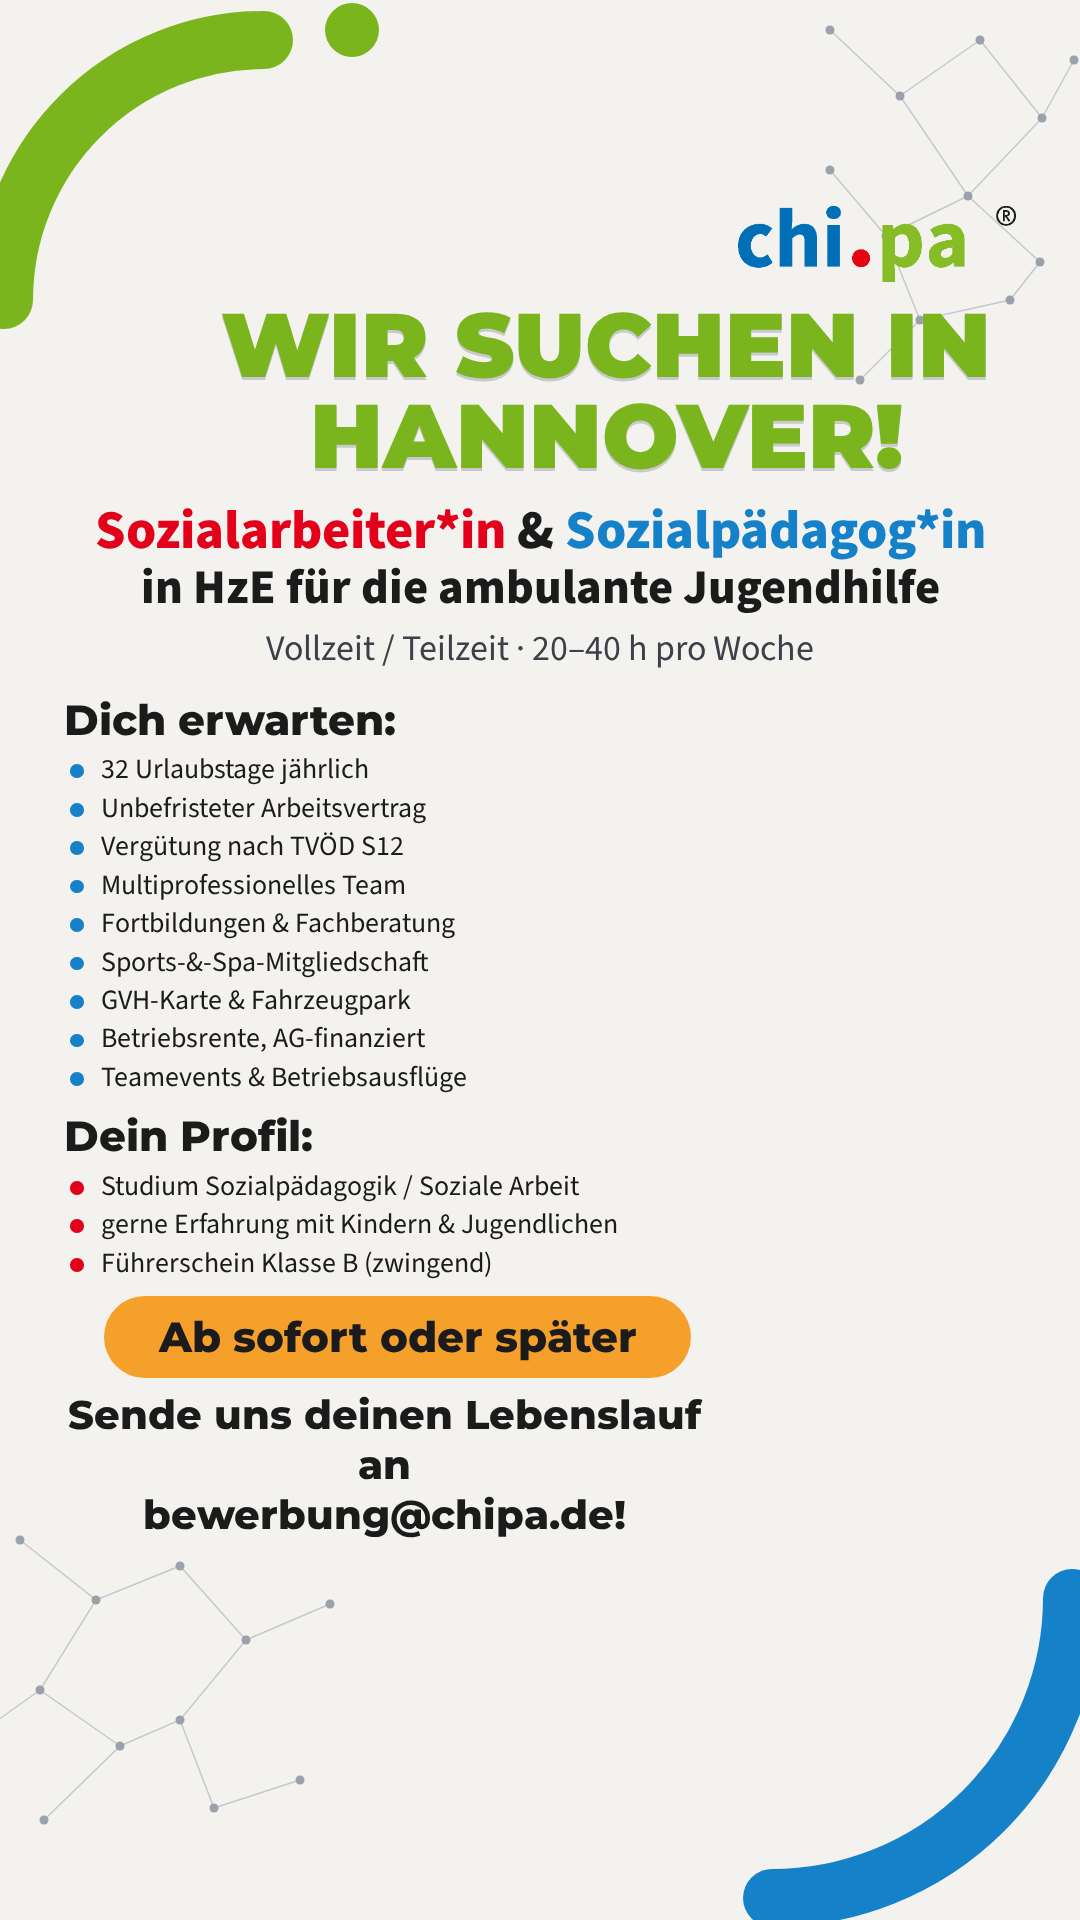
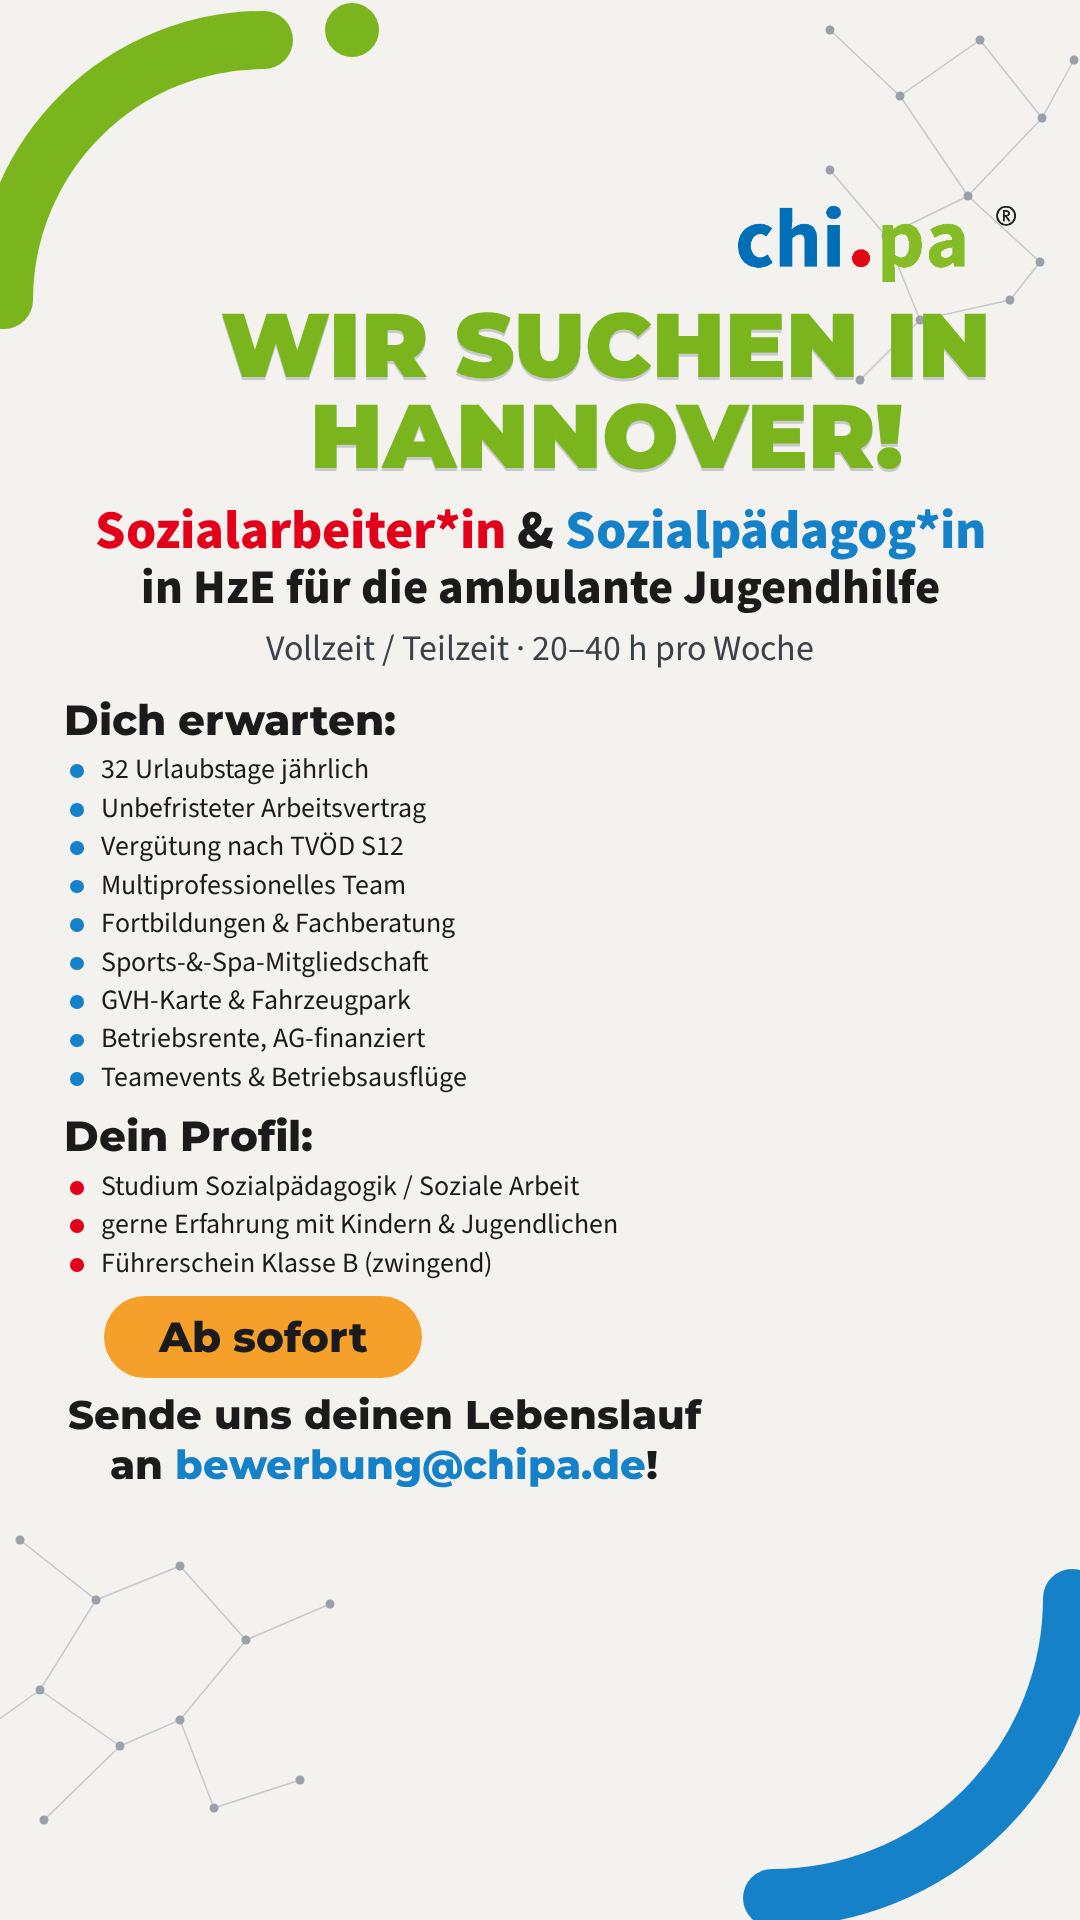
Creatives: neues Portrait, Stoerer "Ab sofort", Mailadresse blau und bei "an"
- anderes freigestelltes Portrait; die schmalere Silhouette erlaubt ohne
  Beschnitt deutlich mehr Bildhoehe (71/73/65 % statt 64/69/35 % der Leinwand)
- Freistellung jetzt ueber Zusammenhangskomponenten: nur die groesste Flaeche
  bleibt stehen, Streublobs koennen nicht mehr uebrigbleiben
- Geometrie mit dem neuen Silhouetten-Profil neu geloest, weiterhin
  mindestens 26px Abstand zur laengsten Textzeile in jeder Bildzeile
- Stoerer: "Ab sofort oder spaeter" -> "Ab sofort"
- CTA umbrochen zu "Sende uns deinen Lebenslauf / an bewerbung@chipa.de!",
  damit "an" direkt vor der Adresse steht; Adresse in chi.pa-Blau

Claude-Session: https://claude.ai/code/session_01XE54kbzobi7jBnp7yP8V6b

Changed region(s): [[0.0917, 0.75, 0.6111, 0.8125], [0.3361, 0.6562, 0.6417, 0.7188]]

diff --git a/landingpages/chipa/anzeigen/hannover-story-9x16.html b/landingpages/chipa/anzeigen/hannover-story-9x16.html
@@ -11,7 +11,7 @@ html,body{margin:0;padding:0;background:#5a5a5a}
 .deco{position:absolute;inset:0}
 .logo{position:absolute;top:206px;right:64px;height:76px;width:auto;z-index:4}
 /* FOTO: freigestelltes PNG. Fehlt es, blendet es sich aus. */
-.person{position:absolute;right:-60px;bottom:0;height:674px;width:auto;z-index:2;
+.person{position:absolute;right:-20px;bottom:0;height:1242px;width:auto;z-index:2;
         filter:drop-shadow(0 12px 26px rgba(21,41,77,.20))}
 .safe{position:absolute;left:0;right:0;top:300px;bottom:340px;
       z-index:3;padding:0 64px;overflow:hidden}
@@ -34,6 +34,7 @@ li::before{content:"";position:absolute;left:calc(5px*var(--k));top:calc(9px*var
 .badge{display:inline-block;margin:0 0 0 40px;background:var(--orange);color:#1b1b1b;
        font-family:'Montserrat',system-ui,sans-serif;font-weight:800;font-size:calc(34px*var(--k));
        padding:calc(12px*var(--k)) calc(44px*var(--k));border-radius:99px}
+.cta .mail{color:var(--blue)}
 .cta{margin:calc(10px*var(--k)) 0 0;width:640px;text-align:center;
      font-family:'Montserrat',system-ui,sans-serif;font-weight:800;font-size:calc(32px*var(--k));line-height:1.26}
 /* Hilfslinien nur mit ?guides=1 */
@@ -69,14 +70,14 @@ body.textonly,body.textonly .ad{background:transparent}
         <h2>Dein Profil:</h2>
         <ul class="profil"><li>Studium Sozialp&auml;dagogik / Soziale Arbeit</li><li>gerne Erfahrung mit Kindern &amp; Jugendlichen</li><li>F&uuml;hrerschein Klasse B (zwingend)</li></ul>
       </div>
-      <div class="badge">Ab sofort oder sp&auml;ter</div>
-      <p class="cta">Sende uns deinen Lebenslauf an<br>bewerbung@chipa.de!</p>
+      <div class="badge">Ab sofort</div>
+      <p class="cta">Sende uns deinen Lebenslauf<br>an <span class="mail">bewerbung@chipa.de</span>!</p>
     </div>
   </div>
 </div>
 
 <script>
-var FALLBACK="https://d2ol7oe51mr4n9.cloudfront.net/user_3FMOEY2sW2O9UHP9weQoM4ut9qO/668c2d66-29bc-4b03-bd2d-835dc50d6ccb.png";
+var FALLBACK="https://d2ol7oe51mr4n9.cloudfront.net/user_3FMOEY2sW2O9UHP9weQoM4ut9qO/534cb777-977c-4ebb-8ee4-2857cd899380.png";
 /* Auto-Fit: skaliert den Textblock herunter, falls er nicht in die sichere
    Flaeche passt. Dadurch kann nach dem Bearbeiten nichts abgeschnitten werden. */
 (function(){

diff --git a/landingpages/chipa/anzeigen/hannover-feed-4x5.html b/landingpages/chipa/anzeigen/hannover-feed-4x5.html
@@ -11,7 +11,7 @@ html,body{margin:0;padding:0;background:#5a5a5a}
 .deco{position:absolute;inset:0}
 .logo{position:absolute;top:30px;right:54px;height:64px;width:auto;z-index:4}
 /* FOTO: freigestelltes PNG. Fehlt es, blendet es sich aus. */
-.person{position:absolute;right:-60px;bottom:0;height:864px;width:auto;z-index:2;
+.person{position:absolute;right:-20px;bottom:0;height:962px;width:auto;z-index:2;
         filter:drop-shadow(0 12px 26px rgba(21,41,77,.20))}
 .safe{position:absolute;left:0;right:0;top:112px;bottom:54px;
       z-index:3;padding:0 54px;overflow:hidden}
@@ -34,6 +34,7 @@ li::before{content:"";position:absolute;left:calc(5px*var(--k));top:calc(9px*var
 .badge{display:inline-block;margin:0 0 0 40px;background:var(--orange);color:#1b1b1b;
        font-family:'Montserrat',system-ui,sans-serif;font-weight:800;font-size:calc(34px*var(--k));
        padding:calc(12px*var(--k)) calc(44px*var(--k));border-radius:99px}
+.cta .mail{color:var(--blue)}
 .cta{margin:calc(10px*var(--k)) 0 0;width:600px;text-align:center;
      font-family:'Montserrat',system-ui,sans-serif;font-weight:800;font-size:calc(32px*var(--k));line-height:1.26}
 /* Hilfslinien nur mit ?guides=1 */
@@ -69,14 +70,14 @@ body.textonly,body.textonly .ad{background:transparent}
         <h2>Dein Profil:</h2>
         <ul class="profil"><li>Studium Sozialp&auml;dagogik / Soziale Arbeit</li><li>gerne Erfahrung mit Kindern &amp; Jugendlichen</li><li>F&uuml;hrerschein Klasse B (zwingend)</li></ul>
       </div>
-      <div class="badge">Ab sofort oder sp&auml;ter</div>
-      <p class="cta">Sende uns deinen Lebenslauf an<br>bewerbung@chipa.de!</p>
+      <div class="badge">Ab sofort</div>
+      <p class="cta">Sende uns deinen Lebenslauf<br>an <span class="mail">bewerbung@chipa.de</span>!</p>
     </div>
   </div>
 </div>
 
 <script>
-var FALLBACK="https://d2ol7oe51mr4n9.cloudfront.net/user_3FMOEY2sW2O9UHP9weQoM4ut9qO/668c2d66-29bc-4b03-bd2d-835dc50d6ccb.png";
+var FALLBACK="https://d2ol7oe51mr4n9.cloudfront.net/user_3FMOEY2sW2O9UHP9weQoM4ut9qO/534cb777-977c-4ebb-8ee4-2857cd899380.png";
 /* Auto-Fit: skaliert den Textblock herunter, falls er nicht in die sichere
    Flaeche passt. Dadurch kann nach dem Bearbeiten nichts abgeschnitten werden. */
 (function(){

diff --git a/landingpages/chipa/anzeigen/hannover-feed-1x1.html b/landingpages/chipa/anzeigen/hannover-feed-1x1.html
@@ -11,7 +11,7 @@ html,body{margin:0;padding:0;background:#5a5a5a}
 .deco{position:absolute;inset:0}
 .logo{position:absolute;top:30px;right:48px;height:54px;width:auto;z-index:4}
 /* FOTO: freigestelltes PNG. Fehlt es, blendet es sich aus. */
-.person{position:absolute;right:-20px;bottom:0;height:740px;width:auto;z-index:2;
+.person{position:absolute;right:-20px;bottom:0;height:788px;width:auto;z-index:2;
         filter:drop-shadow(0 12px 26px rgba(21,41,77,.20))}
 .safe{position:absolute;left:0;right:0;top:96px;bottom:44px;
       z-index:3;padding:0 48px;overflow:hidden}
@@ -34,6 +34,7 @@ li::before{content:"";position:absolute;left:calc(5px*var(--k));top:calc(9px*var
 .badge{display:inline-block;margin:0 0 0 40px;background:var(--orange);color:#1b1b1b;
        font-family:'Montserrat',system-ui,sans-serif;font-weight:800;font-size:calc(34px*var(--k));
        padding:calc(12px*var(--k)) calc(44px*var(--k));border-radius:99px}
+.cta .mail{color:var(--blue)}
 .cta{margin:calc(10px*var(--k)) 0 0;width:580px;text-align:center;
      font-family:'Montserrat',system-ui,sans-serif;font-weight:800;font-size:calc(32px*var(--k));line-height:1.26}
 /* Hilfslinien nur mit ?guides=1 */
@@ -69,14 +70,14 @@ body.textonly,body.textonly .ad{background:transparent}
         <h2>Dein Profil:</h2>
         <ul class="profil"><li>Studium Sozialp&auml;dagogik / Soziale Arbeit</li><li>gerne Erfahrung mit Kindern &amp; Jugendlichen</li><li>F&uuml;hrerschein Klasse B (zwingend)</li></ul>
       </div>
-      <div class="badge">Ab sofort oder sp&auml;ter</div>
-      <p class="cta">Sende uns deinen Lebenslauf an<br>bewerbung@chipa.de!</p>
+      <div class="badge">Ab sofort</div>
+      <p class="cta">Sende uns deinen Lebenslauf<br>an <span class="mail">bewerbung@chipa.de</span>!</p>
     </div>
   </div>
 </div>
 
 <script>
-var FALLBACK="https://d2ol7oe51mr4n9.cloudfront.net/user_3FMOEY2sW2O9UHP9weQoM4ut9qO/668c2d66-29bc-4b03-bd2d-835dc50d6ccb.png";
+var FALLBACK="https://d2ol7oe51mr4n9.cloudfront.net/user_3FMOEY2sW2O9UHP9weQoM4ut9qO/534cb777-977c-4ebb-8ee4-2857cd899380.png";
 /* Auto-Fit: skaliert den Textblock herunter, falls er nicht in die sichere
    Flaeche passt. Dadurch kann nach dem Bearbeiten nichts abgeschnitten werden. */
 (function(){

diff --git a/landingpages/chipa/anzeigen/build.py b/landingpages/chipa/anzeigen/build.py
@@ -14,7 +14,7 @@ ASSETS = os.path.join(HERE, 'assets')
 def b64(path):
     return base64.b64encode(open(path, 'rb').read()).decode()
 
-FALLBACK = 'https://d2ol7oe51mr4n9.cloudfront.net/user_3FMOEY2sW2O9UHP9weQoM4ut9qO/668c2d66-29bc-4b03-bd2d-835dc50d6ccb.png'  # freigestelltes Portrait, falls person.png fehlt
+FALLBACK = 'https://d2ol7oe51mr4n9.cloudfront.net/user_3FMOEY2sW2O9UHP9weQoM4ut9qO/534cb777-977c-4ebb-8ee4-2857cd899380.png'  # freigestelltes Portrait, falls person.png fehlt
 PERSON = sys.argv[1] if len(sys.argv) > 1 else 'person.png'
 
 # ---------------------------------------------------------------- Inhalte ----
@@ -23,8 +23,8 @@ ROLE_A    = 'Sozialarbeiter*in'
 ROLE_B    = 'Sozialp&auml;dagog*in'
 ROLE_SUB  = 'in HzE f&uuml;r die ambulante Jugendhilfe'
 PENSUM    = 'Vollzeit / Teilzeit &middot; 20&ndash;40 h pro Woche'
-BADGE     = 'Ab sofort oder sp&auml;ter'
-CTA       = 'Sende uns deinen Lebenslauf an<br>bewerbung@chipa.de!'
+BADGE     = 'Ab sofort'
+CTA       = 'Sende uns deinen Lebenslauf<br>an <span class="mail">bewerbung@chipa.de</span>!'
 
 PERKS = [
     '32 Urlaubstage j&auml;hrlich',
@@ -47,13 +47,13 @@ PROFIL = [
 # safe_top / safe_bottom: Bereiche, die auf dem Handy von der Plattform-UI
 # ueberdeckt werden koennen. Text und Logo bleiben ausserhalb.
 FORMATS = {
-    'feed-4x5': dict(w=1080, h=1350, k=1.12, col=566, person=864, bleed=60, logo=64,
+    'feed-4x5': dict(w=1080, h=1350, k=1.12, col=566, person=962, bleed=20, logo=64,
                      padx=54, safe_top=112, safe_bottom=54,
                      label='Meta Feed 4:5 (empfohlen)'),
-    'feed-1x1': dict(w=1080, h=1080, k=0.99, col=546, person=740, bleed=20, logo=54,
+    'feed-1x1': dict(w=1080, h=1080, k=0.99, col=546, person=788, bleed=20, logo=54,
                      padx=48, safe_top=96,  safe_bottom=44,
                      label='Meta Feed 1:1'),
-    'story-9x16': dict(w=1080, h=1920, k=1.24, col=606, person=674, bleed=60, logo=76,
+    'story-9x16': dict(w=1080, h=1920, k=1.24, col=606, person=1242, bleed=20, logo=76,
                      padx=64, safe_top=300, safe_bottom=340,
                      label='Stories / Reels 9:16'),
 }
@@ -120,6 +120,7 @@ li::before{{content:"";position:absolute;left:calc(5px*var(--k));top:calc(9px*va
 .badge{{display:inline-block;margin:0 0 0 40px;background:var(--orange);color:#1b1b1b;
        font-family:'Montserrat',system-ui,sans-serif;font-weight:800;font-size:calc(34px*var(--k));
        padding:calc(12px*var(--k)) calc(44px*var(--k));border-radius:99px}}
+.cta .mail{{color:var(--blue)}}
 .cta{{margin:calc(10px*var(--k)) 0 0;width:{f['col']+34}px;text-align:center;
      font-family:'Montserrat',system-ui,sans-serif;font-weight:800;font-size:calc(32px*var(--k));line-height:1.26}}
 /* Hilfslinien nur mit ?guides=1 */
